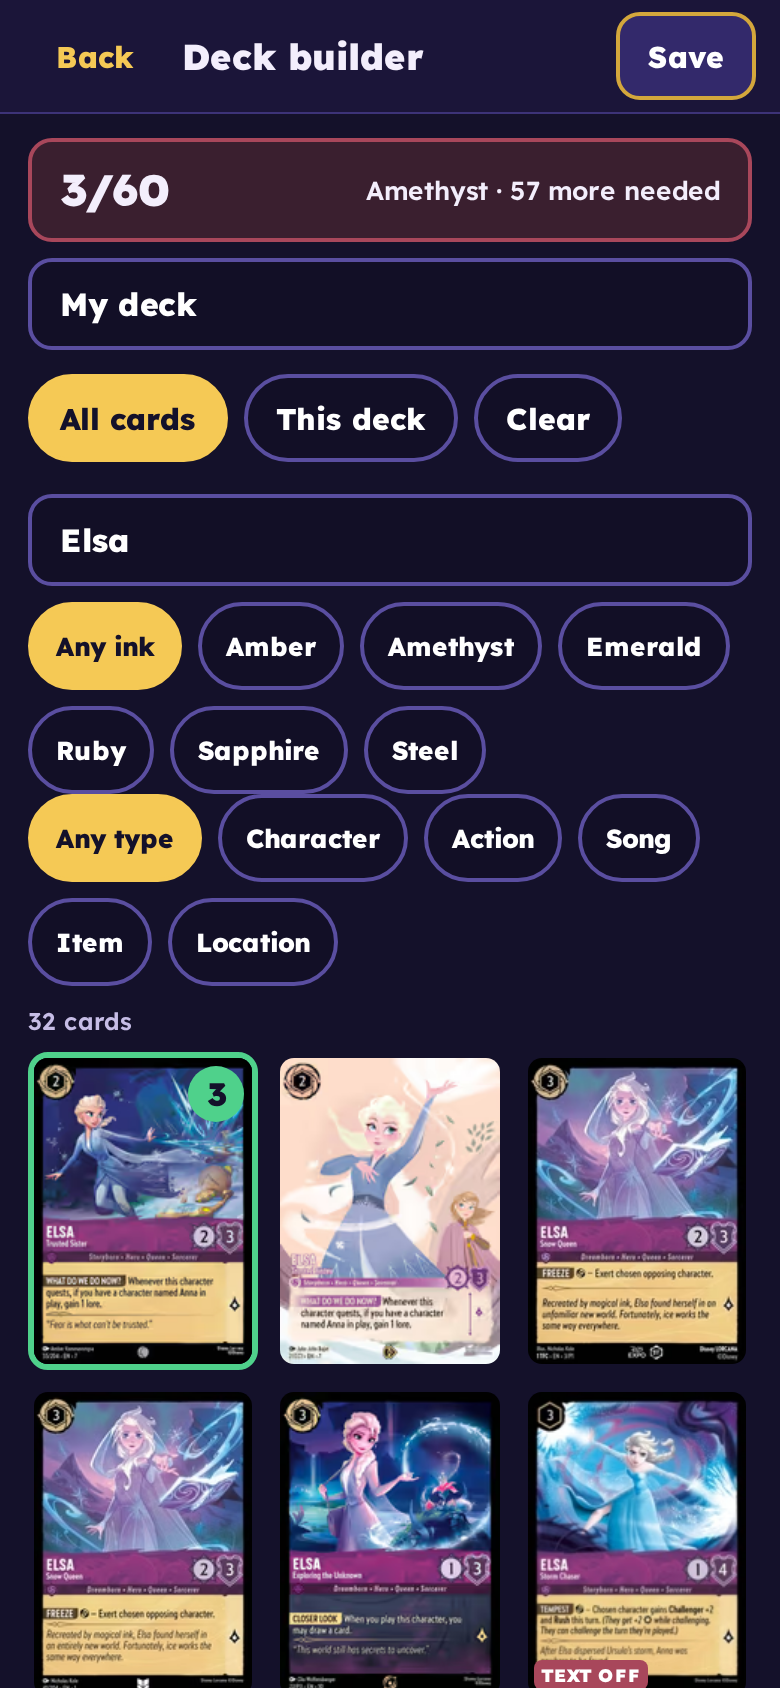
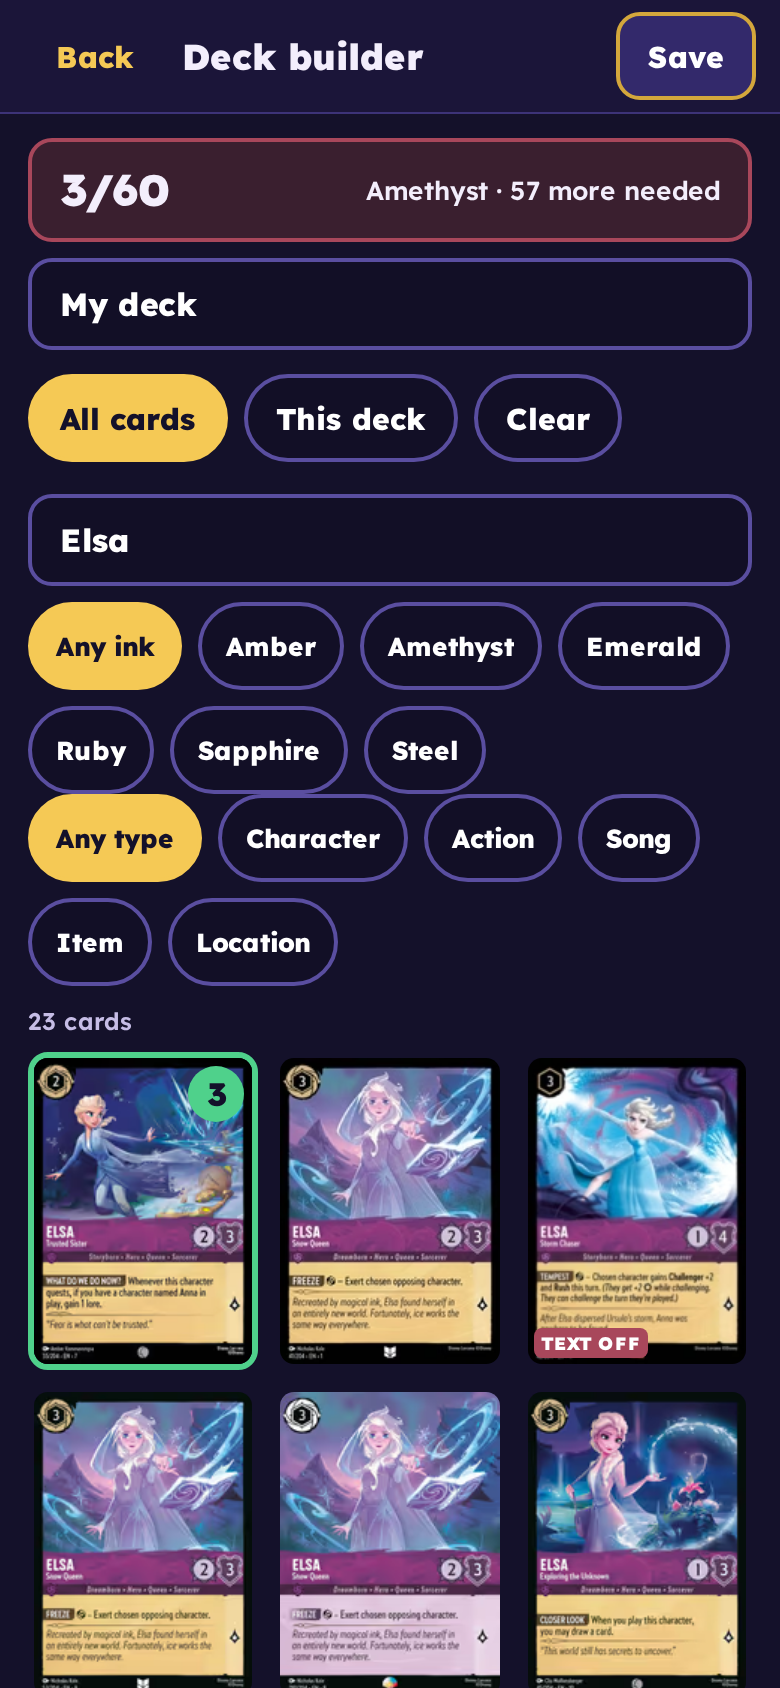
Game pool limited to main sets 1-13

diff --git a/tests/engine.test.js b/tests/engine.test.js
@@ -45,9 +45,9 @@ t("Triggers: when banished / start of turn / statics", () => {
   const g = E.normCard({ id: "g", name: "G", type: ["Character"], cost: 1, strength: 1, willpower: 3, lore: 1, text: "X At the start of your turn, gain 1 lore." }); assert.equal(g.onStart.length, 1);
 });
 t("Card parsing on real data: Elsa - Snow Queen is fully simulated", () => { const raw = window.LORCANA_GAME_CARDS.cards.find(c => c.name === "Elsa" && c.version === "Snow Queen"); const c = E.normCard(raw); assert.equal(c.status, "full"); assert.equal(c.acts.length, 1); });
-t("Prebuilt decks are legal 60-card 2-ink decks", () => { const pool = window.LORCANA_GAME_CARDS.cards.map(E.normCard).filter(c => /^\d+$/.test(c.set)); for (let i = 0; i < 6; i++) for (let j = i + 1; j < 6; j++) { const d = E.buildDeck(pool, [E.INKS[i], E.INKS[j]]); assert.ok(d, E.INKS[i] + E.INKS[j]); assert.equal(E.validateDeck(d), null); } });
+t("Prebuilt decks are legal 60-card 2-ink decks", () => { const pool = window.LORCANA_GAME_CARDS.cards.filter(c => /^\d+$/.test(String(c.set))).map(E.normCard).filter(c => /^\d+$/.test(c.set)); for (let i = 0; i < 6; i++) for (let j = i + 1; j < 6; j++) { const d = E.buildDeck(pool, [E.INKS[i], E.INKS[j]]); assert.ok(d, E.INKS[i] + E.INKS[j]); assert.equal(E.validateDeck(d), null); } });
 t("AI vs AI: 30 full games complete without errors (random decks, all sets)", () => {
-  const pool = window.LORCANA_GAME_CARDS.cards.map(E.normCard); let wins = [0, 0], lore = 0, turns = 0;
+  const pool = window.LORCANA_GAME_CARDS.cards.filter(c => /^\d+$/.test(String(c.set))).map(E.normCard); let wins = [0, 0], lore = 0, turns = 0;
   for (let g = 0; g < 30; g++) {
     const pick = () => { const i = g % 6, j = (g + 1 + (g >> 1) % 5) % 6; return [E.INKS[Math.min(i, j)], E.INKS[Math.max(i, j)]].filter((v, k, a) => a.indexOf(v) === k); };
     const inks = pick(); const d0 = E.buildDeck(pool, inks.length === 2 ? inks : ["Amber", "Steel"]), d1 = E.buildDeck(pool, ["Ruby", "Sapphire"]);
@@ -62,8 +62,8 @@ t("Sing Together exerts several characters", () => { const st = game(); const so
 t("Modal 'choose one' and dig effects parse", () => { const c = E.normCard({ id: "m", name: "M", type: ["Action"], cost: 1, text: "Choose one:\n• Draw 2 cards.\n• Gain 1 lore." }); assert.equal(c.status, "full"); const d = E.normCard({ id: "d", name: "D", type: ["Action"], cost: 1, text: "Look at the top 4 cards of your deck. You may reveal a character card and put it into your hand. Put the rest on the bottom of your deck in any order." }); assert.equal(d.onPlay[0].k, "dig"); });
 t("Conditional statics and cost reduction", () => { const st = game(); ink(st, 0, 1); put(st, 0, C({ name: "Gaston" })); const c = hand(st, 0, C({ cost: 2, text: "X If you have a character named Gaston in play, you pay 1 {I} less to play this character." })); assert.ok(has(st, { t: "play", uid: c.uid })); });
 t("Return-to-hand when banished (self recursion)", () => { const st = game(); const b = put(st, 0, C({ willpower: 1, text: "X When this character is banished in a challenge, return this card to your hand." }), { exerted: true }); E.act(st, { t: "end" }); const a = put(st, 1, C({})); E.act(st, { t: "challenge", uid: a.uid, target: b.uid }); assert.ok(st.players[0].hand.includes(b)); });
-t("Stress: 40 AI games with random decks drawn from ALL 3,263 cards", () => {
-  const pool = window.LORCANA_GAME_CARDS.cards.map(E.normCard); let seed = 99; const r = () => (seed = (seed * 16807) % 2147483647) / 2147483647;
+t("Stress: 40 AI games with random decks drawn from all main-set cards", () => {
+  const pool = window.LORCANA_GAME_CARDS.cards.filter(c => /^\d+$/.test(String(c.set))).map(E.normCard); let seed = 99; const r = () => (seed = (seed * 16807) % 2147483647) / 2147483647;
   const rnd = (inks) => { const ok = pool.filter(c => c.inks.length && c.inks.every(i => inks.includes(i))); const d = []; while (d.length < 60) { const c = ok[Math.floor(r() * ok.length)]; if (d.filter(x => x.full === c.full).length < 4) d.push(c); } return d; };
   for (let g = 0; g < 40; g++) { const i = Math.floor(r() * 6), j = (i + 1 + Math.floor(r() * 5)) % 6; const st = E.newGame({ decks: [rnd([E.INKS[i], E.INKS[j]]), rnd([E.INKS[j], E.INKS[(j + 2) % 6]])], seed: g + 5, first: g % 2 });
     E.mulligan(st, 0, E.aiMulligan(st, 0)); E.mulligan(st, 1, E.aiMulligan(st, 1)); let n = 0; while (st.winner == null && n < 6000) { E.act(st, E.aiChoose(st)); n++; } assert.notEqual(st.winner, null, "game " + g + " did not finish"); }

diff --git a/js/play.js b/js/play.js
@@ -15,7 +15,8 @@ async function loadPool(){
   if(pool)return;if(!window.LORCANA_GAME_CARDS)await loadScript("./data/game-cards.js?v="+V);
   setPool(window.LORCANA_GAME_CARDS.cards);refreshLive();
 }
-function setPool(raw){pool=raw.map(E.normCard);byId=new Map(pool.map(c=>[c.id,c]))}
+function setPool(raw){pool=raw.filter(c=>/^\d+$/.test(String(c.set))).map(E.normCard); // main numbered sets only
+  byId=new Map(pool.map(c=>[c.id,c]))}
 async function refreshLive(){ // try to replace the snapshot with live Lorcast data (used for the next game)
   try{const sig=()=>AbortSignal.timeout(10000);const sets=(await (await fetch("https://api.lorcast.com/v0/sets",{signal:sig()})).json()).results;
     const today=new Date().toISOString().slice(0,10),out=[];
@@ -23,7 +24,7 @@ async function refreshLive(){ // try to replace the snapshot with live Lorcast d
       for(const c of cs)out.push({id:c.id,name:c.name,version:c.version,cost:c.cost,inkwell:c.inkwell,ink:c.ink,inks:c.inks,type:c.type,classifications:c.classifications,text:c.text,move_cost:c.move_cost,strength:c.strength,willpower:c.willpower,lore:c.lore,rarity:c.rarity,collector_number:c.collector_number,set:s.code,img:c.image_uris?.digital?.small})}));
     if(out.length>=pool.length*0.9){setPool(out);source="live"}}catch(e){}
 }
-const mainPool=()=>pool.filter(c=>/^\d+$/.test(c.set));
+const mainPool=()=>pool;
 const decks=()=>JSON.parse(localStorage.getItem(DKEY)||"[]");
 const saveDecks=d=>localStorage.setItem(DKEY,JSON.stringify(d));
 function ownedMap(){const col=JSON.parse(localStorage.getItem("lorcanaCollection.v1")||"{}"),m={};for(const[id,v]of Object.entries(col))m[id]=(v.n||0)+(v.f||0);return m}
@@ -48,7 +49,7 @@ function renderMenu(){
   <button class="wide" data-a="builder">Deck builder</button>
   <h4>Opponent</h4><div class="opts"><button class="opt ${S.opp==="random"?"on":""}" data-a="opp" data-v="random">Random starter</button>${STARTERS.map((p,i)=>`<button class="opt ${S.opp==="s"+i?"on":""}" data-a="opp" data-v="s${i}">${p.join("/")}</button>`).join("")}</div>
   <button class="wide primary" data-a="start">Start game</button>
-  <p class="meta small">${pool.length} cards loaded (${source=="live"?"live from Lorcast":"snapshot"}). ${coverageLine()}</p></div>`;
+  <p class="meta small">${pool.length} main-set cards loaded (${source=="live"?"live from Lorcast":"snapshot"}). ${coverageLine()}</p></div>`;
 }
 function coverageLine(){const c=E.coverage(pool).byStatus;return`Ability simulation: ${c.full||0} full, ${c.keywords||0} keyword-only, ${c.plain||0} no-text, ${c.partial||0} partial, ${c.vanilla||0} vanilla fallback.`}
 /* deck builder */
@@ -65,7 +66,7 @@ function renderBuilder(){
   <div class="bstat ${n>=60&&inks.length<=2?"ok":""}"><b>${n}/60</b><span>${inks.join(" / ")||"No inks yet"} · ${warn}</span></div>
   <input class="pin" id="bname" value="${esc(b.name)}" placeholder="Deck name">
   <div class="row2"><button class="opt ${b.view==="all"?"on":""}" data-a="bview" data-v="all">All cards</button><button class="opt ${b.view==="deck"?"on":""}" data-a="bview" data-v="deck">This deck</button><button class="opt" data-a="bclear">Clear</button></div>
-  ${b.view==="all"?`<input class="pin" id="bq" type="search" value="${esc(b.q)}" placeholder="Search all ${pool.length} cards">
+  ${b.view==="all"?`<input class="pin" id="bq" type="search" value="${esc(b.q)}" placeholder="Search ${pool.length} main-set cards">
   <div class="opts">${["",...E.INKS].map(i=>`<button class="opt sm ${b.ink===i?"on":""}" data-a="bink" data-v="${i}">${i||"Any ink"}</button>`).join("")}</div>
   <div class="opts">${["","character","action","song","item","location"].map(i=>`<button class="opt sm ${b.type===i?"on":""}" data-a="btype" data-v="${i}">${i?i[0].toUpperCase()+i.slice(1):"Any type"}</button>`).join("")}</div>`:""}
   <div class="meta small">${total} cards${total>b.limit?`, showing ${b.limit}`:""}</div>

diff --git a/tools/coverage.js b/tools/coverage.js
@@ -1,11 +1,11 @@
 // node tools/coverage.js  -> prints coverage and writes COVERAGE.md
 global.window = {}; require("../data/game-cards.js"); const E = require("../js/engine.js"), fs = require("fs");
-const pool = window.LORCANA_GAME_CARDS.cards.map(E.normCard), cov = E.coverage(pool), b = cov.byStatus;
+const pool = window.LORCANA_GAME_CARDS.cards.filter(c => /^\d+$/.test(String(c.set))).map(E.normCard), cov = E.coverage(pool), b = cov.byStatus;
 const allPrints = {}; for (const c of pool) allPrints[c.status] = (allPrints[c.status] || 0) + 1;
 const seen = new Set(), pat = {};
 for (const c of pool) { if (seen.has(c.full)) continue; seen.add(c.full); for (const u of c.unsupported) { const k = u.replace(/\([^)]*\)/g, "").replace(/[’]/g, "'").replace(/^[A-Z0-9' !?,.\-&]+ (?=[A-Z{0-9])/, "").replace(/\d+/g, "N").replace(/named [A-Z][\w' -]+?(?= in| or|,|\.| and)/g, "named X").trim().slice(0, 120); pat[k] = (pat[k] || 0) + 1; } }
 const top = Object.entries(pat).sort((a, b) => b[1] - a[1]);
-const md = `# Ability coverage\n\nGenerated by \`node tools/coverage.js\` from ${pool.length} printings (${cov.unique} unique cards by name + version).\n\n| Status | Unique cards | Printings | Meaning |\n|---|---|---|---|\n` +
+const md = `# Ability coverage\n\nGenerated by \`node tools/coverage.js\` from ${pool.length} main-set printings (sets 1-13; promo/special sets are excluded from the game) (${cov.unique} unique cards by name + version).\n\n| Status | Unique cards | Printings | Meaning |\n|---|---|---|---|\n` +
   [["full", "Every ability on the card is simulated"], ["keywords", "Only keywords (Bodyguard, Evasive, Shift...) and all are simulated"], ["plain", "No rules text (vanilla card)"], ["partial", "Some abilities simulated, at least one is not"], ["vanilla", "Has rules text that is not simulated; plays with stats/keywords only"]].map(([k, m]) => `| ${k} | ${b[k] || 0} | ${allPrints[k] || 0} | ${m} |`).join("\n") +
   `\n\nFully correct (full + keywords + plain): **${(b.full || 0) + (b.keywords || 0) + (b.plain || 0)} / ${cov.unique}** unique cards. Every card can be put in a deck and played; unsupported text is shown on the card with a badge.\n\n## Remaining unsupported ability patterns (${top.length} distinct, most common first)\n\n` + top.slice(0, 150).map(([k, n]) => `- ${n} x ${k}`).join("\n") + (top.length > 150 ? `\n- ...and ${top.length - 150} more one-off abilities\n` : "\n");
 fs.writeFileSync(__dirname + "/../COVERAGE.md", md); console.log(JSON.stringify({ unique: cov.unique, byStatus: b, printings: allPrints, distinctUnsupportedPatterns: top.length }));

diff --git a/index.html b/index.html
@@ -3,7 +3,7 @@
 <meta http-equiv="Cache-Control" content="no-cache, no-store, must-revalidate"><meta http-equiv="Pragma" content="no-cache"><meta http-equiv="Expires" content="0">
 <meta name="theme-color" content="#241d4a"><title>Liam's Lorcana Collection</title>
 <link rel="preconnect" href="https://fonts.googleapis.com"><link href="https://fonts.googleapis.com/css2?family=Lexend:wght@600;800;900&display=swap" rel="stylesheet">
-<link rel="stylesheet" href="./css/style.css?v=20261011195746"></head><body>
+<link rel="stylesheet" href="./css/style.css?v=20261011195907"></head><body>
 <header id="top">
  <div class="row"><button id="back" class="icon-btn" aria-label="Back to sets" hidden>Back</button>
   <h1 id="title">LIAM'S LORCANA</h1>
@@ -15,4 +15,4 @@
 <div id="scrim" hidden></div>
 <section id="sheet" class="sheet" aria-hidden="true"><div class="grab"></div><div id="sheet-body"></div></section>
 <input type="file" id="import" accept=".json,application/json" hidden>
-<script>window.APP_VERSION="20261011195746"</script><script src="./data/snapshot.js?v=20261011195746"></script><script src="./js/engine.js?v=20261011195746"></script><script src="./js/play.js?v=20261011195746"></script><script src="./js/app.js?v=20261011195746"></script></body></html>
+<script>window.APP_VERSION="20261011195907"</script><script src="./data/snapshot.js?v=20261011195907"></script><script src="./js/engine.js?v=20261011195907"></script><script src="./js/play.js?v=20261011195907"></script><script src="./js/app.js?v=20261011195907"></script></body></html>

diff --git a/COVERAGE.md b/COVERAGE.md
@@ -1,34 +1,30 @@
 # Ability coverage
 
-Generated by `node tools/coverage.js` from 3263 printings (2550 unique cards by name + version).
+Generated by `node tools/coverage.js` from 3000 main-set printings (sets 1-13; promo/special sets are excluded from the game) (2483 unique cards by name + version).
 
 | Status | Unique cards | Printings | Meaning |
 |---|---|---|---|
-| full | 508 | 658 | Every ability on the card is simulated |
-| keywords | 223 | 264 | Only keywords (Bodyguard, Evasive, Shift...) and all are simulated |
-| plain | 286 | 325 | No rules text (vanilla card) |
-| partial | 422 | 633 | Some abilities simulated, at least one is not |
-| vanilla | 1111 | 1383 | Has rules text that is not simulated; plays with stats/keywords only |
+| full | 505 | 613 | Every ability on the card is simulated |
+| keywords | 222 | 254 | Only keywords (Bodyguard, Evasive, Shift...) and all are simulated |
+| plain | 285 | 312 | No rules text (vanilla card) |
+| partial | 413 | 562 | Some abilities simulated, at least one is not |
+| vanilla | 1058 | 1259 | Has rules text that is not simulated; plays with stats/keywords only |
 
-Fully correct (full + keywords + plain): **1017 / 2550** unique cards. Every card can be put in a deck and played; unsupported text is shown on the card with a badge.
+Fully correct (full + keywords + plain): **1012 / 2483** unique cards. Every card can be put in a deck and played; unsupported text is shown on the card with a badge.
 
-## Remaining unsupported ability patterns (1663 distinct, most common first)
+## Remaining unsupported ability patterns (1596 distinct, most common first)
 
 - 11 x Your characters named X.
 - 4 x When you play this character, banish her or return another chosen character of yours to your hand.
 - 3 x Characters get +N {W} while here.
 - 3 x Temporary Shift N {I}
-- 2 x When this character is challenged and banished, you may return chosen character to their player's hand.
-- 2 x Whenever a character is banished in a challenge while here, you may return them to your hand.
-- 2 x Characters named Ursula get +N {L} while here.
-- 2 x All cards in your hand count as having {IW}.
 - 2 x When this character is challenged and banished, banish the challenging character.
 - 2 x When you play this character, look at the top N cards of your deck. You may put one into your hand. Put the rest on the 
 - 2 x When you play this character, if an opponent has more cards in their inkwell than you, you may put the top card of your 
 - 2 x Return chosen character to their player's hand, then that player discards a card at random.
+- 2 x All cards in your hand count as having {IW}.
 - 2 x Banish all items.
 - 2 x Each opponent chooses one of their characters and deals N damage to them.
-- 2 x Whenever you play another Princess character, all opposing characters get -N {S} until the start of your next turn.
 - 2 x When you play this character, you may move up to N damage counters from chosen character to chosen opposing character.
 - 2 x When you play this character, you may pay N {I} to banish chosen item.
 - 2 x When you play this character, you may exert chosen damaged character.
@@ -49,7 +45,6 @@ Fully correct (full + keywords + plain): **1017 / 2550** unique cards. Every car
 - 2 x Once during your turn, whenever a card is put into your inkwell, look at the top card of your deck. You may put it on ei
 - 2 x When you play this character, chosen opponent reveals their hand and discards a non-character card of your choice.
 - 2 x While you have a character named X in play, this character gains Challenger +N.
-- 2 x Look at the top N cards of your deck. You may reveal a character, item, or location card with cost N or less and play it
 - 2 x {I} — Return this item to your hand.
 - 2 x Exert chosen opposing character. Move all damage counters from all other characters to that character.
 - 2 x When you play this character, you may put the top card of your deck facedown under one of your characters or locations w
@@ -57,29 +52,13 @@ Fully correct (full + keywords + plain): **1017 / 2550** unique cards. Every car
 - 2 x While you have no cards in your hand, this character gains Resist +N.
 - 2 x When you play this character, choose one of the following. If you have another Toy character in play, choose both instea
 - 2 x Combo Shift N {I}
-- 2 x When the Vine plays this character, it makes a Vine Tendril for each Illumineer.
-- 1 x Whenever you play a character with cost N or less, you may exert it to draw a card.
-- 1 x When you play this character, if an opponent has more cards in their hand than you, draw a card.
-- 1 x During your turn, this character has Evasive.
-- 1 x Your other Musketeer characters get +N {S}.
-- 1 x When you play this character, you may remove up to N damage from each of your Musketeer characters.
-- 1 x During your turn, your Musketeer characters gain Evasive.
-- 1 x Whenever you play a Floodborn character, if you used Shift to play them, each opponent chooses and discards a card.
-- 1 x Whenever you play a second action in a turn, this character gets +N {L} this turn.
-- 1 x Whenever this character quests, you may play an action with cost N or less for free.
-- 1 x When you play this character, you may return chosen opposing character with N {S} or less to their player's hand.
-- 1 x Characters gain Rush while here.
-- 1 x Your Pirate characters may move here for free.
-- 1 x For each location you have in play, this character gains Resist +N and gets +N {L}.
-- 1 x Whenever you remove N or more damage from one of your characters, you may draw a card.
-- 1 x Your characters gain Resist +N until the start of your next turn.
-- 1 x Other characters can't exert to sing songs.
-- 1 x Shift: Discard N cards
 - 1 x {E} — Remove up to N damage from chosen Princess character.
+- 1 x When you play this character, you may remove up to N damage from each of your Musketeer characters.
 - 1 x This character gets +N {L} for each other Villain character you have in play.
 - 1 x Whenever this character quests, you may ready your other Princess characters. They can't quest for the rest of this turn
 - 1 x When this character challenges and is banished, you may banish the challenged character.
 - 1 x When you play this character, remove up to N damage from one of your characters. Draw a card for each N damage removed t
+- 1 x Whenever you play a character with cost N or less, you may exert them to draw a card.
 - 1 x You may play a character with cost N or less for free.
 - 1 x When you play this character, if you have a character named X in play, choose an opposing character. The chosen characte
 - 1 x Whenever one of your other characters is banished in a challenge, you may return that card to your hand.
@@ -94,6 +73,8 @@ Fully correct (full + keywords + plain): **1017 / 2550** unique cards. Every car
 - 1 x Return a character or item with cost N or less to their player's hand.
 - 1 x {E} — Look at the top N cards of your deck. Put one on the top of your deck and the other on the bottom.
 - 1 x When you play this character, exert all opposing damaged characters.
+- 1 x When this character is challenged and banished, you may return chosen character to their player's hand.
+- 1 x Whenever this character quests, you may play an action with cost N or less for free.
 - 1 x When this character is challenged and banished, you may banish the challenging character.
 - 1 x While this character is exerted, opposing characters can't quest.
 - 1 x Whenever one of your characters quests this turn, each opponent loses N lore.
@@ -109,12 +90,15 @@ Fully correct (full + keywords + plain): **1017 / 2550** unique cards. Every car
 - 1 x Your other characters gain Ward.
 - 1 x During your turn, you may put an additional card from your hand into your inkwell facedown.
 - 1 x When you play this character, you may put chosen opposing character into their player's inkwell facedown.
+- 1 x When you play this character, if an opponent has more cards in their hand than you, draw a card.
 - 1 x This character gets +N {L} for each item you have in play.
 - 1 x Put chosen character into their player's inkwell facedown and exerted.
 - 1 x {E} — Put any card from your hand into your inkwell facedown.
 - 1 x When you play this character, you may return an action card named Fire the Cannons! from your discard to your hand.
 - 1 x Characters with cost N or less can't challenge this character.
+- 1 x During your turn, your Musketeer characters gain Evasive.
 - 1 x Characters with cost N or less can't challenge your characters.
+- 1 x Your other Musketeer characters get +N {S}.
 - 1 x Each player discards their hand and draws N cards.
 - 1 x {E}, N {I} — If you have no cards in your hand, draw a card.
 - 1 x Whenever one of your characters with Bodyguard is banished, you may draw a card.
@@ -126,6 +110,7 @@ Fully correct (full + keywords + plain): **1017 / 2550** unique cards. Every car
 - 1 x Whenever another character is banished, you may remove up to N damage from this character.
 - 1 x When this character is banished, you may reveal the top card of your deck. If it's a character card, you may play that c
 - 1 x Whenever this character quests, you may reveal the top card of your deck. If it's a song card, you may play it for free.
+- 1 x Whenever you remove N or more damage from one of your characters, you may draw a card.
 - 1 x Whenever you play this character or another Seven Dwarfs character, you may give chosen character -N {S} this turn.
 - 1 x You pay N {I} less to play Seven Dwarfs characters.
 - 1 x Whenever this character quests, chosen opposing character gets -N {S} this turn and chosen character gets +N {S} this tu
@@ -153,6 +138,7 @@ Fully correct (full + keywords + plain): **1017 / 2550** unique cards. Every car
 - 1 x Whenever an opposing character is damaged, you may ready this character.
 - 1 x While an opponent has no cards in their hand, this character gets +N {L}.
 - 1 x Whenever this character is challenged, the challenging character's player discards all cards in their hand.
+- 1 x Whenever you play a Floodborn character, if you used Shift to play them, each opponent chooses and discards a card.
 - 1 x {E} — Banish chosen damaged character.
 - 1 x At the start of your turn, each player may draw a card.
 - 1 x This character gets -N {L} for each card in your opponents' hands.
@@ -164,4 +150,18 @@ Fully correct (full + keywords + plain): **1017 / 2550** unique cards. Every car
 - 1 x Return chosen character of yours to your hand to play another character with the same cost or less for free.
 - 1 x Return chosen character of yours to your hand to return another chosen character to their player's hand.
 - 1 x Gain N lore for each damaged character opponents have in play.
-- ...and 1513 more one-off abilities
+- 1 x Banish chosen damaged character.
+- 1 x This character gets +N {L} for each N damage on him.
+- 1 x When you play this character, each opponent with more lore than you loses N lore.
+- 1 x Whenever you play a second action in a turn, this character gets +N {L} this turn.
+- 1 x Whenever one of your characters challenges another character, you may draw a card.
+- 1 x When you play this character, exert chosen opposing character with N {S} or less. Choose one of your characters and read
+- 1 x Whenever this character challenges a damaged character, she takes no damage from the challenge.
+- 1 x Whenever one of your characters challenges another character, gain N lore.
+- 1 x Ready chosen damaged character of yours. They can't quest for the rest of this turn. Draw a card.
+- 1 x Deal N damage to chosen character of yours to deal N damage to another chosen character.
+- 1 x Banish chosen Villain of yours to banish chosen character.
+- 1 x Chosen damaged character gets +N {S} this turn.
+- 1 x {E}, N {I} — Draw cards equal to the damage on chosen character of yours, then banish them.
+- 1 x Your characters with Evasive get +N {S}.
+- ...and 1446 more one-off abilities

diff --git a/README.md b/README.md
@@ -17,4 +17,4 @@ Edit `index.html.tmpl` (not `index.html`), then run `tools/stamp.sh` before comm
 
 ## Play mode (vs AI)
 
-Tap **Play** on the home screen. Pick a starter deck, auto-build one from your collection, or make your own in the deck builder (any of the 3,263 cards, 60+ cards, max 4 copies, up to 2 inks). The rules engine (`js/engine.js`) covers the core rules and keywords; card text abilities are parsed into a pattern library. See `COVERAGE.md` for exact numbers and what is not simulated yet. Tests: `node tests/engine.test.js`. Coverage report: `node tools/coverage.js`.
+Tap **Play** on the home screen. Pick a starter deck, auto-build one from your collection, or make your own in the deck builder (any card from main sets 1-13; promo and special sets are excluded from the game, 60+ cards, max 4 copies, up to 2 inks). The rules engine (`js/engine.js`) covers the core rules and keywords; card text abilities are parsed into a pattern library. See `COVERAGE.md` for exact numbers and what is not simulated yet. Tests: `node tests/engine.test.js`. Coverage report: `node tools/coverage.js`.
